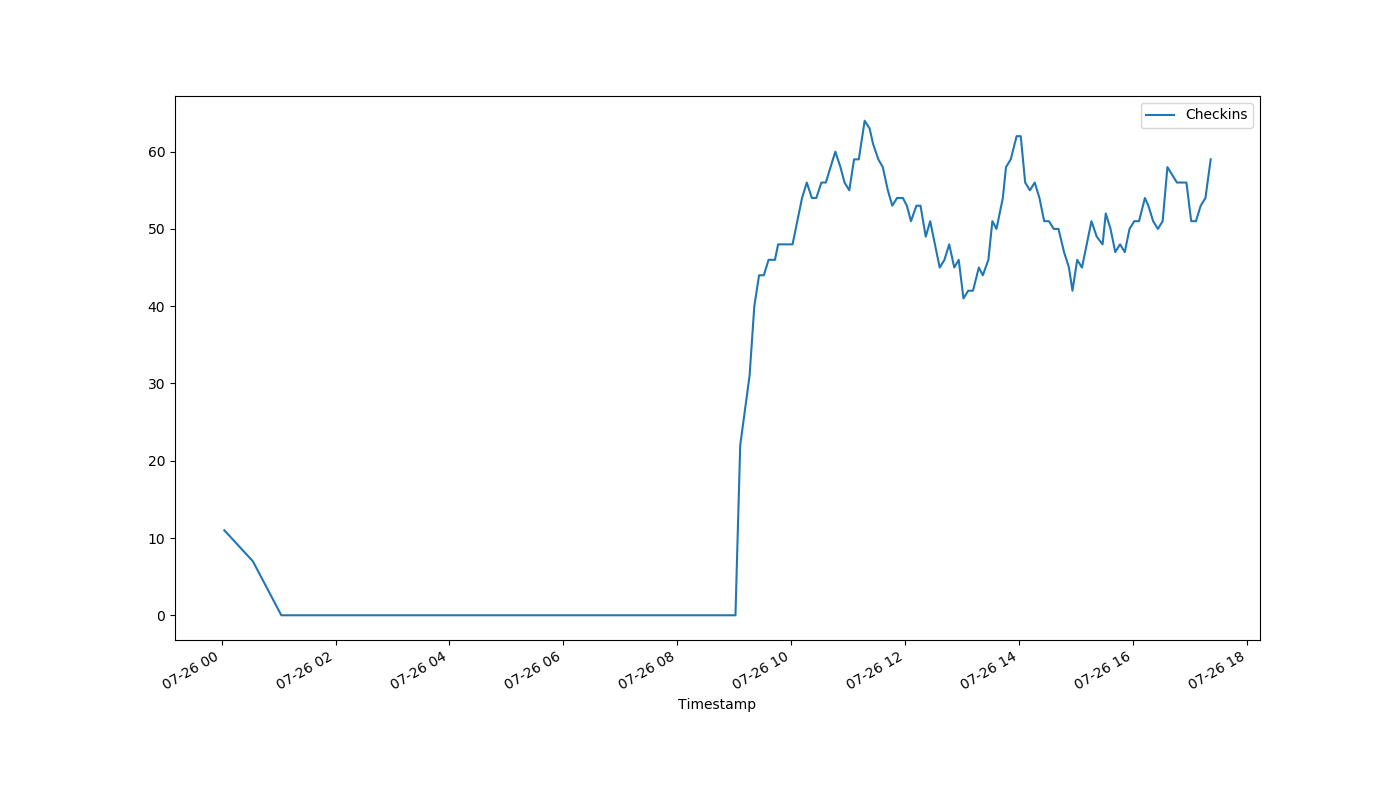
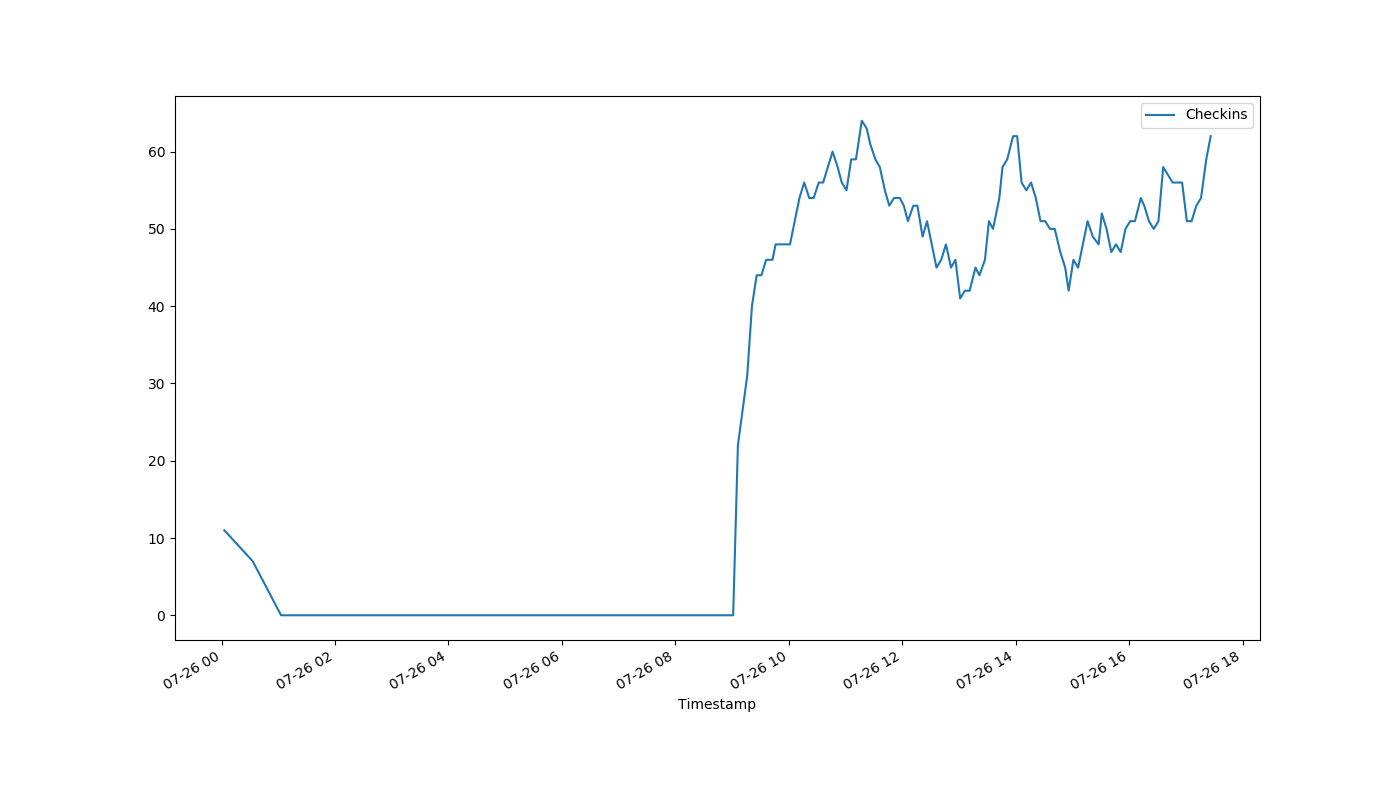
auto-Jul-26-17:27:48

diff --git a/index.html b/index.html
@@ -1,1 +1,1 @@
-<!DOCTYPE html><html><head><meta http-equiv="refresh" content="30"><link rel='stylesheet' href='holmcurrent.css'></head><body><p id='count'>59</p><div id='graph-wrap'><img id='graph' src='holmgraph-Jul-26.png'></div><p id='updated'>Last updated 17:22:13 / 17:21:36</p></body></html>
+<!DOCTYPE html><html><head><meta http-equiv="refresh" content="30"><link rel='stylesheet' href='holmcurrent.css'></head><body><p id='count'>62</p><div id='graph-wrap'><img id='graph' src='holmgraph-Jul-26.png'></div><p id='updated'>Last updated 17:27:13 / 17:26:17</p></body></html>
